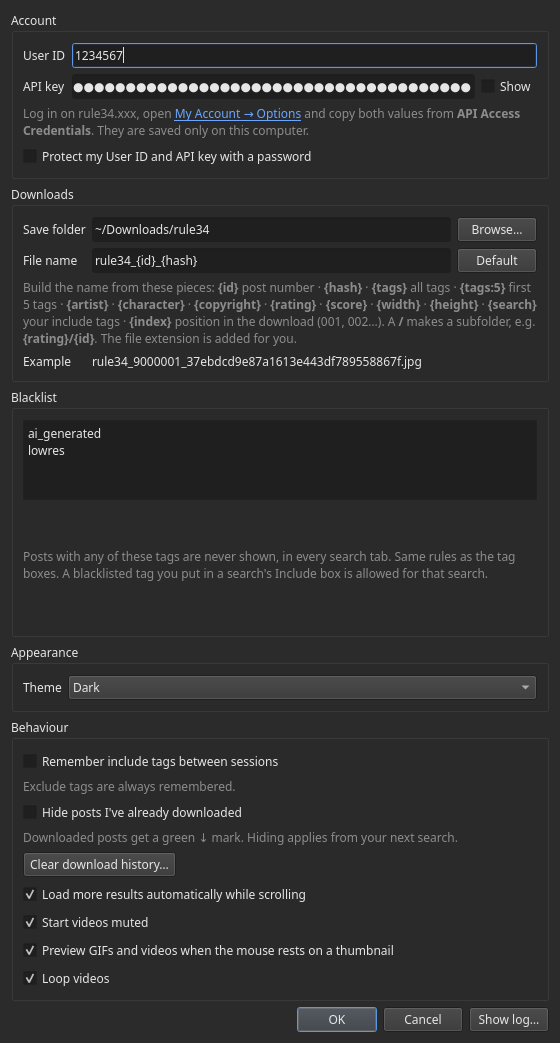
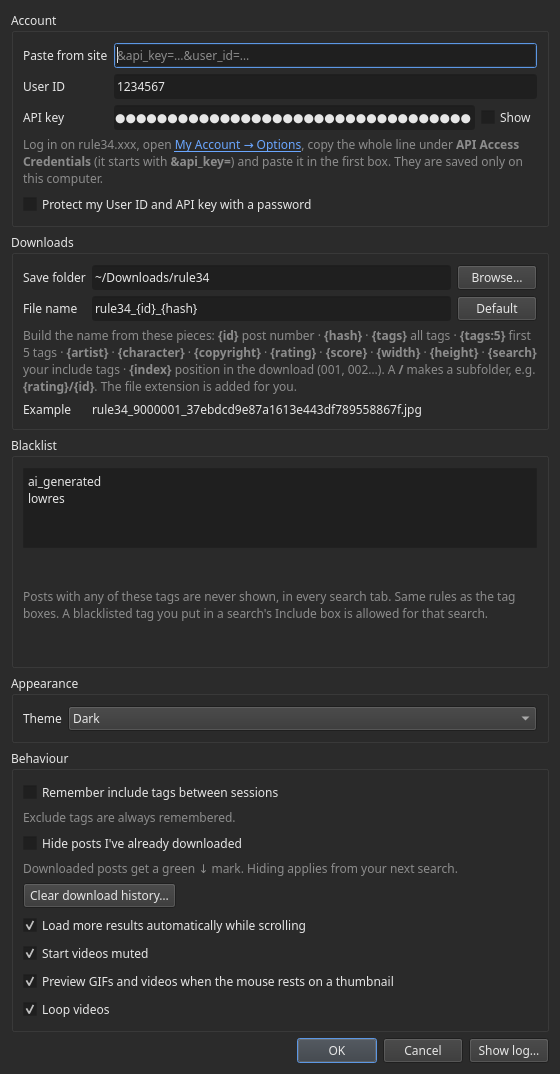
R34 Downloader 1.0.1: paste the credentials line from rule34.xxx
Settings has a 'Paste from site' box that splits '&api_key=…&user_id=…' into User ID and API key.

diff --git a/src/r34dl/dialogs.py b/src/r34dl/dialogs.py
@@ -145,6 +145,14 @@ class SettingsDialog(QDialog):
 
         account = QGroupBox("Account")
         form = QFormLayout(account)
+        self.paste_edit = QLineEdit()
+        self.paste_edit.setPlaceholderText("&api_key=…&user_id=…")
+        self.paste_edit.setToolTip("Paste the whole line from the site; the User ID and API key are filled in for you")
+        self.paste_edit.textChanged.connect(self._pasted_line)
+        form.addRow("Paste from site", self.paste_edit)
+        self.paste_status = hint_label("")
+        self.paste_status.hide()
+        form.addRow(self.paste_status)
         self.user_edit = QLineEdit(cfg["user_id"])
         self.user_edit.setPlaceholderText("e.g. 1234567")
         self.key_edit = QLineEdit(cfg["api_key"])
@@ -156,10 +164,12 @@ class SettingsDialog(QDialog):
         key_row.addWidget(show)
         form.addRow("User ID", self.user_edit)
         form.addRow("API key", key_row)
+        for edit in (self.user_edit, self.key_edit):  # the whole line pasted into one field works too
+            edit.textChanged.connect(lambda text, e=edit: self._split_field(e, text))
         form.addRow(hint_label(
             'Log in on rule34.xxx, open <a href="https://rule34.xxx/index.php?page=account&s=options">'
-            "My Account → Options</a> and copy both values from <b>API Access Credentials</b>. "
-            "They are saved only on this computer.", links=True))
+            "My Account → Options</a>, copy the whole line under <b>API Access Credentials</b> (it starts with "
+            "<b>&amp;api_key=</b>) and paste it in the first box. They are saved only on this computer.", links=True))
         self.protect_check = QCheckBox("Protect my User ID and API key with a password")
         self.protect_check.setChecked(self._was_protected)
         self.protect_check.toggled.connect(self._update_password_rows)
@@ -285,6 +295,38 @@ class SettingsDialog(QDialog):
         w = max(self.width(), self.minimumWidth())
         self.resize(w, max(self.height(), self.layout().totalHeightForWidth(w)))
         self._update_preview()
+
+    def _fill(self, uid: str | None, key: str | None):
+        for edit, value in ((self.user_edit, uid), (self.key_edit, key)):
+            if value is not None and edit.text() != value:
+                edit.blockSignals(True)
+                edit.setText(value)
+                edit.blockSignals(False)
+
+    def _pasted_line(self, text: str):
+        if not text.strip():
+            return
+        uid, key = api.parse_credentials(text)
+        if uid and key:
+            self._fill(uid, key)
+            self.paste_edit.blockSignals(True)
+            self.paste_edit.clear()  # don't leave the key readable on screen
+            self.paste_edit.blockSignals(False)
+            self.paste_status.setText("✓ User ID and API key filled in. Press OK to save.")
+        else:
+            missing = " and ".join(n for n, v in (("api_key=", key), ("user_id=", uid)) if not v)
+            self.paste_status.setText(f"That doesn't look like the whole line: no <b>{missing}</b> in it. "
+                                      "Copy everything under API Access Credentials.")
+        self.paste_status.show()
+
+    def _split_field(self, edit: QLineEdit, text: str):
+        """The line (or "api_key=…" / "user_id=…") pasted into the User ID or API key field: keep only the values."""
+        if "=" in text:
+            self._fill(*api.parse_credentials(text))
+            if "=" in edit.text():  # this field's own value wasn't in the text
+                edit.blockSignals(True)
+                edit.clear()
+                edit.blockSignals(False)
 
     def _update_password_rows(self, *_):
         protect = self.protect_check.isChecked()

diff --git a/tests/test_config.py b/tests/test_config.py
@@ -161,3 +161,24 @@ def test_other_window_cannot_silently_unprotect():
     assert disk["secret"] == {"v": 1, "data": "x"} and disk["api_key"] == ""
     config.save({**cfg, "secret": {}}, unprotect=True)  # turning it off on purpose still works
     assert config.load()["secret"] == {}
+
+
+def test_settings_paste_box_fills_both_fields(qapp):
+    from r34dl.dialogs import SettingsDialog
+    key = "cd34" * 32
+    d = SettingsDialog({**config.DEFAULTS}, None)
+    d.paste_edit.setText(f"&api_key={key}&user_id=7654321")
+    assert (d.user_edit.text(), d.key_edit.text()) == ("7654321", key)
+    assert d.paste_edit.text() == "" and "filled in" in d.paste_status.text()
+    d.paste_edit.setText("just some text")
+    assert "api_key=" in d.paste_status.text() and d.key_edit.text() == key  # nothing overwritten
+
+
+def test_settings_whole_line_pasted_into_one_field(qapp):
+    from r34dl.dialogs import SettingsDialog
+    key = "ef56" * 32
+    d = SettingsDialog({**config.DEFAULTS}, None)
+    d.user_edit.setText(f"&api_key={key}&user_id=1112223")
+    assert (d.user_edit.text(), d.key_edit.text()) == ("1112223", key)
+    d.key_edit.setText("api_key=")  # half a line: the field doesn't keep "api_key="
+    assert d.key_edit.text() == ""

diff --git a/tests/test_api.py b/tests/test_api.py
@@ -191,3 +191,20 @@ def test_scrub_hides_the_home_folder(monkeypatch):
     assert api.scrub("can't write /home/someone/Downloads/x.jpg") == "can't write ~/Downloads/x.jpg"
     assert api.scrub("/home/someone2/x") == "/home/someone2/x"  # only the real home, not a prefix of another
     assert api.home_short("/home/someone") == "~"
+
+
+FAKE_KEY = "ab12" * 32
+
+
+@pytest.mark.parametrize("text", [
+    f"&api_key={FAKE_KEY}&user_id=7654321",
+    f"&user_id=7654321&api_key={FAKE_KEY}",
+    f"  https://api.rule34.xxx/index.php?page=dapi&s=post&q=index&api_key={FAKE_KEY}&user_id=7654321\n",
+])
+def test_parse_credentials_reads_the_sites_line(text):
+    assert api.parse_credentials(text) == ("7654321", FAKE_KEY)
+
+
+def test_parse_credentials_partial_and_garbage():
+    assert api.parse_credentials("user_id=42") == ("42", None)
+    assert api.parse_credentials("hello") == (None, None)

diff --git a/src/r34dl/api.py b/src/r34dl/api.py
@@ -31,6 +31,14 @@ def scrub(text: str) -> str:
     return home_short(_SECRET_RE.sub(r"\1=***", text))
 
 
+def parse_credentials(text: str) -> tuple[str | None, str | None]:
+    """(user_id, api_key) found in what the user pasted: the line rule34.xxx shows under API Access Credentials
+    ("&api_key=…&user_id=…", either order), a whole URL with them, or just one "name=value". None = not there."""
+    uid = re.search(r"user_id=\s*(\d+)", text)
+    key = re.search(r"api_key=\s*([0-9A-Za-z]+)", text)
+    return (uid.group(1) if uid else None), (key.group(1) if key else None)
+
+
 def home_short(text: str) -> str:
     home = os.path.expanduser("~").rstrip("/")
     if len(home) <= 1:

diff --git a/README.md b/README.md
@@ -6,7 +6,7 @@ reasonably recent distribution without installing anything.
 
 **18+ only.** This is a tool for an adult website.
 
-Current version: **1.0.0**
+Current version: **1.0.1**
 
 ![Search tab: tag boxes on the left, results grid with tick boxes, favorite and downloaded marks](screenshots/search.png)
 
@@ -104,8 +104,9 @@ Names are cleaned for the file system and shortened if too long; an existing fil
 
 ## Getting an API key
 
-On rule34.xxx: My Account → Options → **API Access Credentials**. Copy your user ID and API key into the app's
-Settings (it opens by itself the first time).
+On rule34.xxx: My Account → Options → **API Access Credentials**. Copy the whole line shown there (it looks
+like `&api_key=…&user_id=…`) and paste it into **Paste from site** in the app's Settings, which opens by itself
+the first time. The User ID and API key are filled in for you.
 
 ## Run
 
